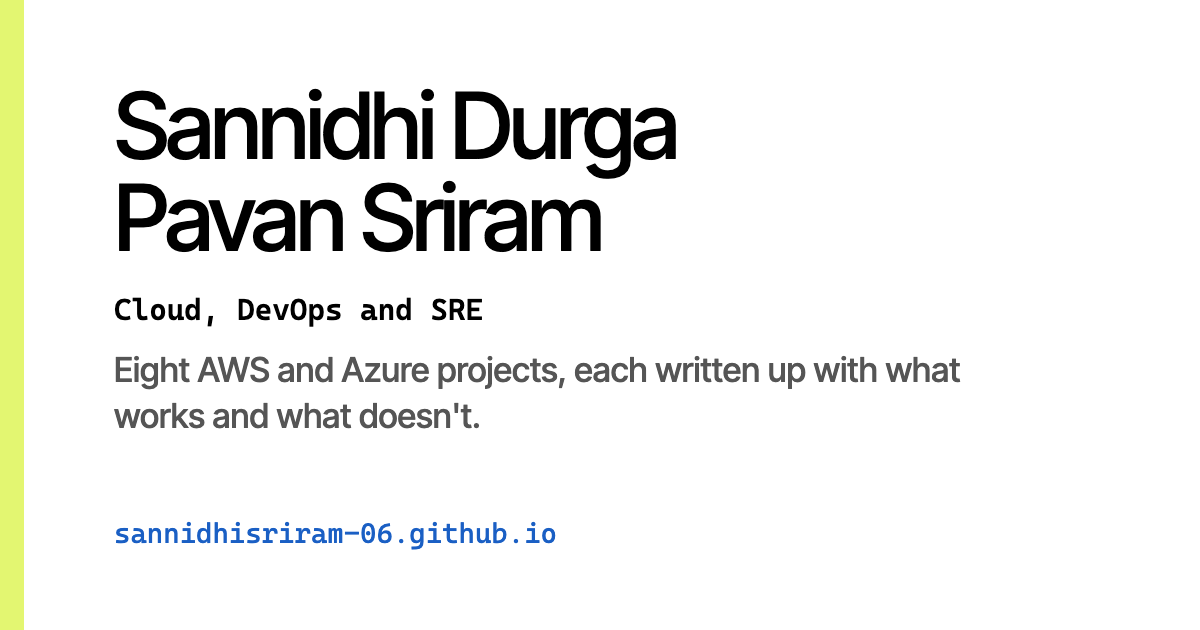
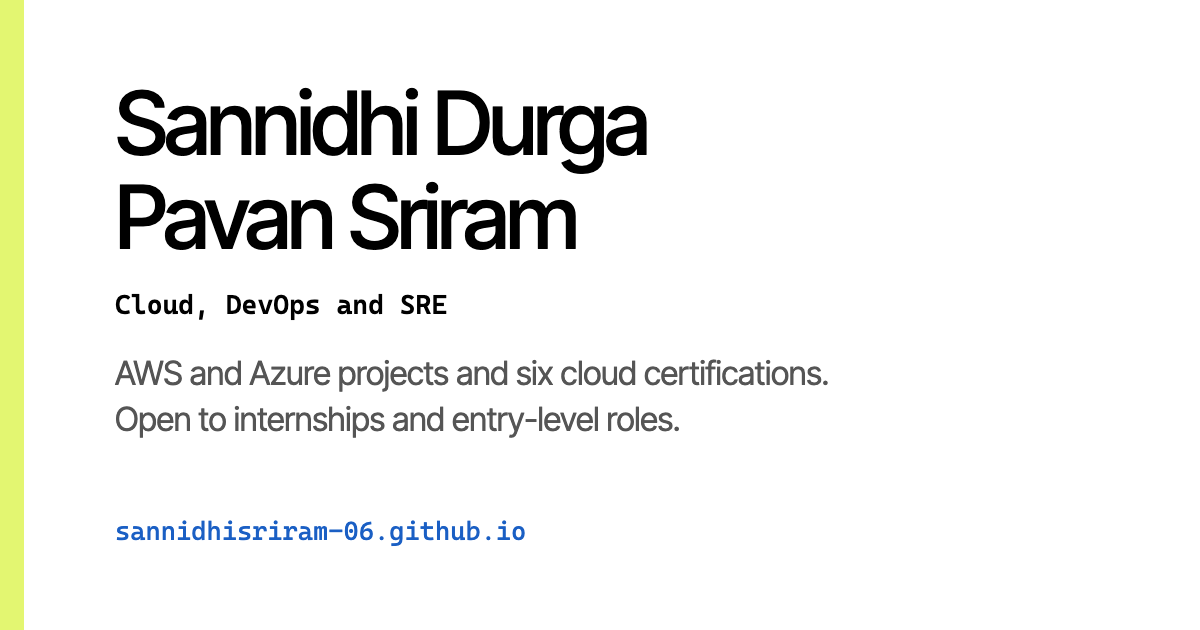
feat: mobile polish, globe in Contact, polite link preview, 10th grade wording
- Mobile: full-screen diagram dialog with swipe hint, compact terminal prompt
  and chips, shorter scroll story, 44px tap targets, phone-width axe test
- Globe moved from the hero to the Contact heading, smaller and calmer
- Link preview text and card image rewritten (professional tone), image cache-busted
- Education: "10th Grade (CBSE Board)" instead of SSC
- Terminal rm reply softened

diff --git a/js/hero.js b/js/hero.js
@@ -1,9 +1,8 @@
-/* Hero: a dotted globe with the three places my work lives (Hyderabad, us-east-1, ap-south-1) and packets crossing between them.
-   Decorative only. Falls back to nothing without WebGL, and to a still frame with reduced motion. */
+/* A small spinning globe beside the Contact heading: dots, arcs between Hyderabad, us-east-1 and ap-south-1, and packets crossing them.
+   Decorative only. Does nothing without WebGL, and holds a still frame with reduced motion. */
 import * as THREE from '../assets/vendor/three.module.min.js';
 
-const intro = document.getElementById('about');
-const canvas = document.getElementById('hero-canvas');
+const canvas = document.getElementById('globe-canvas');
 const calm = matchMedia('(prefers-reduced-motion: reduce)');
 
 const ll = (lat, lon, r = 1) => {
@@ -12,24 +11,21 @@ const ll = (lat, lon, r = 1) => {
   return new THREE.Vector3(-r * Math.sin(phi) * Math.cos(th), r * Math.cos(phi), r * Math.sin(phi) * Math.sin(th));
 };
 
-if (intro && canvas) {
-  let renderer;
+if (canvas) {
+  let renderer = null;
   try {
     renderer = new THREE.WebGLRenderer({ canvas, antialias: true, alpha: true });
-  } catch (err) {
-    renderer = null; // no WebGL: the page is fine without it
-  }
+  } catch (err) { /* no WebGL: the heading simply has no globe beside it */ }
 
   if (renderer) {
-    const css = (n) => getComputedStyle(document.documentElement).getPropertyValue(n).trim();
     const scene = new THREE.Scene();
     const camera = new THREE.PerspectiveCamera(32, 1, 0.1, 20);
-    camera.position.set(0, 0.2, 5.4);
+    camera.position.set(0, 0, 4.6);
     const globe = new THREE.Group();
     scene.add(globe);
 
-    // Dots on a sphere (Fibonacci spiral).
-    const N = 2400;
+    // Dots on a sphere (Fibonacci spiral). Dot size is set in size(), so small globes get fatter dots.
+    const N = 1500;
     const pos = new Float32Array(N * 3);
     for (let i = 0; i < N; i++) {
       const y = 1 - (i / (N - 1)) * 2;
@@ -39,14 +35,13 @@ if (intro && canvas) {
     }
     const dotGeo = new THREE.BufferGeometry();
     dotGeo.setAttribute('position', new THREE.BufferAttribute(pos, 3));
-    const dotMat = new THREE.PointsMaterial({ size: 0.014, transparent: true, opacity: 0.55 });
+    const dotMat = new THREE.PointsMaterial({ size: 0.065, transparent: true, opacity: 0.8 });
     globe.add(new THREE.Points(dotGeo, dotMat));
 
-    // Places and arcs.
     const places = { hyd: ll(17.39, 78.49, 1.02), iad: ll(38.9, -77.4, 1.02), bom: ll(19.08, 72.88, 1.02) };
     const markMat = new THREE.MeshBasicMaterial();
     Object.values(places).forEach((p) => {
-      const m = new THREE.Mesh(new THREE.SphereGeometry(0.02, 16, 16), markMat);
+      const m = new THREE.Mesh(new THREE.SphereGeometry(0.07, 12, 12), markMat);
       m.position.copy(p);
       globe.add(m);
     });
@@ -54,12 +49,12 @@ if (intro && canvas) {
       const mid = a.clone().add(b).multiplyScalar(0.5).normalize().multiplyScalar(1.02 + lift);
       return new THREE.QuadraticBezierCurve3(a, mid, b);
     };
-    const arcs = [arcOf(places.hyd, places.iad, 0.55), arcOf(places.iad, places.bom, 0.55), arcOf(places.bom, places.hyd, 0.08)];
-    const lineMat = new THREE.LineBasicMaterial({ transparent: true, opacity: 0.8 });
-    arcs.forEach((c) => globe.add(new THREE.Line(new THREE.BufferGeometry().setFromPoints(c.getPoints(60)), lineMat)));
+    const arcs = [arcOf(places.hyd, places.iad, 0.35), arcOf(places.iad, places.bom, 0.35), arcOf(places.bom, places.hyd, 0.06)];
+    const lineMat = new THREE.LineBasicMaterial({ transparent: true });
+    arcs.forEach((c) => globe.add(new THREE.Line(new THREE.BufferGeometry().setFromPoints(c.getPoints(50)), lineMat)));
     const packetMat = new THREE.MeshBasicMaterial();
     const packets = arcs.map((c, i) => {
-      const m = new THREE.Mesh(new THREE.SphereGeometry(0.014, 12, 12), packetMat);
+      const m = new THREE.Mesh(new THREE.SphereGeometry(0.05, 10, 10), packetMat);
       globe.add(m);
       return { m, c, off: i / arcs.length };
     });
@@ -67,42 +62,37 @@ if (intro && canvas) {
     const colour = () => {
       const dark = document.documentElement.dataset.theme === 'dark';
       dotMat.color.set(dark ? '#ffffff' : '#111111');
-      const a = css('--accent');
-      lineMat.color.set(a);
-      markMat.color.set(a);
+      const accent = getComputedStyle(document.documentElement).getPropertyValue('--accent').trim();
+      lineMat.color.set(accent);
+      markMat.color.set(accent);
       packetMat.color.set(dark ? '#ffffff' : '#000000');
     };
     colour();
     new MutationObserver(() => { colour(); frame(performance.now()); }).observe(document.documentElement, { attributes: true, attributeFilter: ['data-theme'] });
 
     const size = () => {
-      const w = intro.clientWidth, h = intro.clientHeight;
-      renderer.setPixelRatio(Math.min(devicePixelRatio || 1, 2));
+      const w = canvas.clientWidth, h = canvas.clientHeight;
+      if (!w || !h) return;
+      renderer.setPixelRatio(Math.min(Math.max(devicePixelRatio || 1, 2), 3));
       renderer.setSize(w, h, false);
+      dotMat.size = Math.max(0.03, (0.065 * 100) / w);
       camera.aspect = w / h;
-      // Wide screens: globe sits right of centre, behind the portrait. Narrow: centred, behind the text.
-      const wide = w > 820;
-      camera.setViewOffset(w, h, wide ? -w * 0.24 : 0, 0, w, h);
       camera.updateProjectionMatrix();
+      frame(performance.now());
     };
-    new ResizeObserver(size).observe(intro);
-    size();
+    new ResizeObserver(size).observe(canvas);
 
-    let tx = 0, ty = 0;
-    addEventListener('pointermove', (e) => {
-      tx = (e.clientX / innerWidth - 0.5) * 0.4;
-      ty = (e.clientY / innerHeight - 0.5) * 0.25;
-    }, { passive: true });
+    const tx = 0, ty = 0;
 
     let rot = 3.6; // starts with India facing the viewer
     let last = 0;
     function frame(t) {
       const dt = last ? Math.min(0.05, (t - last) / 1000) : 0;
       last = t;
-      if (!calm.matches) rot += dt * 0.12;
+      if (!calm.matches) rot += dt * 0.25;
       globe.rotation.y = rot + tx;
       globe.rotation.x = 0.35 + ty;
-      packets.forEach((p) => p.m.position.copy(p.c.getPoint(calm.matches ? 0.5 : ((t / 3500 + p.off) % 1))));
+      packets.forEach((p) => p.m.position.copy(p.c.getPoint(calm.matches ? 0.5 : (t / 2500 + p.off) % 1)));
       renderer.render(scene, camera);
     }
 
@@ -112,9 +102,9 @@ if (intro && canvas) {
     new IntersectionObserver(([en]) => {
       visible = en.isIntersecting;
       if (visible && !raf) raf = requestAnimationFrame(loop);
-    }).observe(intro);
+    }).observe(canvas);
     document.addEventListener('visibilitychange', () => { if (!document.hidden && visible && !raf) raf = requestAnimationFrame(loop); });
-    frame(performance.now());
+    size();
     if (!calm.matches) raf = requestAnimationFrame(loop);
   }
 }

diff --git a/index.html b/index.html
@@ -8,7 +8,7 @@
     content="default-src 'self'; script-src 'self' 'sha256-nKo76zcTgJ7cS6COEog0be5NjAlF+VynFE1kHt5L5Oo='; style-src 'self'; img-src 'self' data:; font-src 'self'; connect-src 'self' https://formspree.io https://*.workers.dev; form-action https://formspree.io; frame-src 'none'; base-uri 'self'; object-src 'none'" />
   <title>Sannidhi Durga Pavan Sriram | Cloud, DevOps and SRE</title>
   <meta name="description"
-    content="Cloud, DevOps and SRE student engineer. Eight AWS and Azure projects with Terraform, ECS, Kubernetes GitOps and detection engineering, each written up with what works and what doesn't. Six cloud certifications." />
+    content="Cloud, DevOps and SRE student engineer based in Hyderabad. Eight AWS and Azure projects built with Terraform, Kubernetes GitOps and detection engineering, six cloud certifications and an Infosys Springboard internship. Open to internships and entry-level roles." />
   <meta name="author" content="Sannidhi Durga Pavan Sriram" />
   <meta name="theme-color" content="#ffffff" media="(prefers-color-scheme: light)" />
   <meta name="theme-color" content="#111111" media="(prefers-color-scheme: dark)" />
@@ -19,16 +19,16 @@
   <meta property="og:url" content="https://sannidhisriram-06.github.io/" />
   <meta property="og:title" content="Sannidhi Durga Pavan Sriram | Cloud, DevOps and SRE" />
   <meta property="og:description"
-    content="Eight AWS and Azure projects, each written up with what works and what doesn't. Six cloud certifications." />
-  <meta property="og:image" content="https://sannidhisriram-06.github.io/assets/og-card.png" />
+    content="Cloud, DevOps and SRE student engineer in Hyderabad. AWS and Azure projects, six cloud certifications and an Infosys Springboard internship. Open to internships and entry-level roles." />
+  <meta property="og:image" content="https://sannidhisriram-06.github.io/assets/og-card.png?v=2" />
   <meta property="og:image:width" content="1200" />
   <meta property="og:image:height" content="630" />
   <meta property="og:image:alt" content="Sannidhi Durga Pavan Sriram, Cloud, DevOps and SRE" />
   <meta name="twitter:card" content="summary_large_image" />
   <meta name="twitter:title" content="Sannidhi Durga Pavan Sriram | Cloud, DevOps and SRE" />
   <meta name="twitter:description"
-    content="Eight AWS and Azure projects, each written up with what works and what doesn't. Six cloud certifications." />
-  <meta name="twitter:image" content="https://sannidhisriram-06.github.io/assets/og-card.png" />
+    content="Cloud, DevOps and SRE student engineer in Hyderabad. AWS and Azure projects, six cloud certifications and an Infosys Springboard internship. Open to internships and entry-level roles." />
+  <meta name="twitter:image" content="https://sannidhisriram-06.github.io/assets/og-card.png?v=2" />
 
   <script type="application/ld+json">
   {
@@ -90,8 +90,6 @@
   <main id="main">
     <!-- ───────────── Intro ───────────── -->
     <section class="intro wrap" id="about" aria-labelledby="intro-title">
-      <canvas id="hero-canvas" class="hero-canvas" aria-hidden="true"></canvas>
-      <p class="hero-legend" aria-hidden="true">Hyderabad · us-east-1 · ap-south-1</p>
       <div class="intro-text">
         <h1 id="intro-title">Sannidhi Durga Pavan Sriram</h1>
         <p class="intro-role">Cloud, DevOps and SRE</p>
@@ -230,7 +228,7 @@
         </div>
         <div class="term-screen" id="term-screen" role="log" aria-label="Terminal output" aria-live="polite" tabindex="-1"></div>
         <form class="term-form" id="term-form" autocomplete="off">
-          <label class="term-prompt" for="term-input">recruiter@portfolio ~ %</label>
+          <label class="term-prompt" for="term-input"><span class="term-host">recruiter@portfolio </span>~ %</label>
           <input id="term-input" type="text" autocomplete="off" autocapitalize="off" autocorrect="off" spellcheck="false" enterkeyhint="send" />
         </form>
       </div>
@@ -353,7 +351,7 @@
           <p>Hyderabad, Telangana · 2021 to 2023 · 77.5%</p>
         </li>
         <li>
-          <h3>Secondary School Certificate, Oxford Grammar High School</h3>
+          <h3>10th Grade (CBSE Board), Oxford Grammar High School</h3>
           <p>Hyderabad, Telangana · 2020 to 2021 · 84.6%</p>
         </li>
       </ul>
@@ -361,8 +359,16 @@
 
     <!-- ───────────── Contact ───────────── -->
     <section class="section wrap contact" id="contact" aria-labelledby="contact-title">
-      <h2 id="contact-title">Contact</h2>
-      <p class="section-note">I'm in Hyderabad (IST, UTC+5:30). Email is the fastest way to reach me.</p>
+      <div class="contact-head">
+        <div>
+          <h2 id="contact-title">Contact</h2>
+          <p class="section-note">I'm in Hyderabad (IST, UTC+5:30). Email is the fastest way to reach me.</p>
+        </div>
+        <figure class="globe-fig" aria-hidden="true">
+          <canvas id="globe-canvas" class="contact-globe"></canvas>
+          <figcaption>Hyderabad · us-east-1 · ap-south-1</figcaption>
+        </figure>
+      </div>
       <div class="contact-grid">
         <div class="contact-side">
           <ul class="contact-list">

diff --git a/style.css b/style.css
@@ -1236,34 +1236,16 @@ code {
   .header-inner { gap: 0 0.5rem; }
 }
 
-/* ── Hero globe ─────────────────────────────────────────────────────── */
-.intro { position: relative; }
+/* ── Globe: sits in the Contact heading, beside "I'm in Hyderabad" ───── */
+.contact-head { display: flex; align-items: center; justify-content: space-between; gap: 1.5rem; }
+.contact-head .section-note { margin-bottom: 1.5rem; }
+.globe-fig { margin: 0 0 1rem; flex: none; text-align: center; }
+.contact-globe { display: block; width: 8rem; height: 8rem; margin-inline: auto; }
+.globe-fig figcaption { margin-top: 0.25rem; font-family: var(--font-mono); font-size: 0.6875rem; color: var(--muted); }
 
-.hero-canvas {
-  position: absolute;
-  inset: 0;
-  width: 100%;
-  height: 100%;
-  z-index: 0;
-  pointer-events: none;
-}
-
-.intro > :not(canvas):not(.hero-legend) { position: relative; z-index: 1; }
-
-.hero-legend {
-  position: absolute;
-  right: 0;
-  bottom: 0.9rem;
-  z-index: 1;
-  margin: 0;
-  font-family: var(--font-mono);
-  font-size: 0.72rem;
-  color: var(--muted);
-}
-
-@media (max-width: 51.99rem) {
-  .hero-canvas { opacity: 0.35; }
-  .hero-legend { display: none; }
+@media (max-width: 40rem) {
+  .contact-globe { width: 5.5rem; height: 5.5rem; }
+  .globe-fig figcaption { display: none; }
 }
 
 /* ── Terminal ───────────────────────────────────────────────────────── */
@@ -1569,4 +1551,38 @@ code {
 
 @media (min-width: 52rem) {
   .experience-top { grid-template-columns: minmax(0, 1fr) minmax(0, 24rem); align-items: start; }
+}
+
+/* ── Mobile polish: tap targets, terminal, diagrams and the scroll story ── */
+.term-form input { min-height: 2.75rem; }
+.cert-figure figcaption a,
+.ring-link { display: inline-flex; align-items: center; min-height: 2.75rem; }
+.scroll-cue { position: relative; }
+.scroll-cue::after { content: ""; position: absolute; inset: -0.5rem -0.9rem; } /* bigger tap area, same look */
+.diagram-hint { display: none; }
+
+@media (max-width: 40rem) {
+  .term-host { display: none; }
+  .term-chips { gap: 0.5rem; }
+
+  .term-chip {
+    height: auto;
+    min-height: 2.75rem;
+    padding: 0.4rem 0.9rem;
+    border-radius: 1.4rem;
+    justify-content: flex-start;
+    text-align: left;
+    font-size: 0.75rem;
+    line-height: 1.35;
+  }
+
+  /* Five steps should not mean four screens of scrolling on a phone. */
+  .story { height: calc(var(--steps) * 45vh + 20vh); }
+
+  /* Diagrams get the whole screen, and scroll sideways rather than shrinking to nothing. */
+  .diagram-dialog { width: 100vw; max-width: 100vw; height: 100dvh; max-height: 100dvh; border: 0; border-radius: 0; }
+  .diagram-body { grid-template-rows: minmax(0, 1.5fr) minmax(0, 1fr); }
+  .diagram-svg { min-width: 58rem; }
+  .diagram-actions { padding: 0.5rem 0.75rem; }
+  .diagram-hint { display: block; position: sticky; left: 0; margin: 0.5rem 0 0; font-family: var(--font-mono); font-size: 0.75rem; color: var(--muted); }
 }

diff --git a/tests/site.spec.js b/tests/site.spec.js
@@ -30,3 +30,12 @@ test('terminal answers help and replays the lab', async ({ page }) => {
   await page.press('#term-input', 'Enter');
   await expect(page.locator('#term-screen')).toContainText('replay wazuh');
 });
+
+test('mobile: no sideways scroll and no axe violations', async ({ page }) => {
+  await page.setViewportSize({ width: 360, height: 740 });
+  await page.goto('/');
+  await page.waitForLoadState('networkidle');
+  expect(await page.evaluate(() => document.documentElement.scrollWidth <= document.documentElement.clientWidth)).toBe(true);
+  const { violations } = await new AxeBuilder({ page }).analyze();
+  expect(violations.map((v) => v.id)).toEqual([]);
+});

diff --git a/js/terminal.js b/js/terminal.js
@@ -276,7 +276,7 @@ if (term) {
       if (/^hire sannidhi$/i.test(arg)) return hire();
       print('recruiter is not in the sudoers file.  This incident will be reported.', 'err');
     },
-    rm() { print('nice try. Everything here is in git anyway.', 'warn'); },
+    rm() { print('That command is not available here. Everything on this site is kept in git anyway.', 'dim'); },
     exit() { print('there is no exit, only #contact.', 'dim'); },
   };
 

diff --git a/js/diagrams.js b/js/diagrams.js
@@ -260,7 +260,10 @@ if (dialog && stage && typeof dialog.showModal === 'function') {
       svg.append(g);
       nodes[nd.id] = g;
     });
-    stage.replaceChildren(svg);
+    const hint = document.createElement('p');
+    hint.className = 'diagram-hint';
+    hint.textContent = 'Swipe sideways to see the whole diagram.';
+    stage.replaceChildren(hint, svg);
 
     panel.replaceChildren();
     const cap = document.createElement('p');
